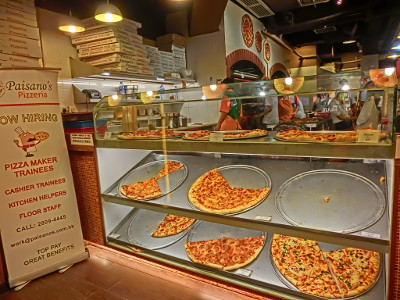
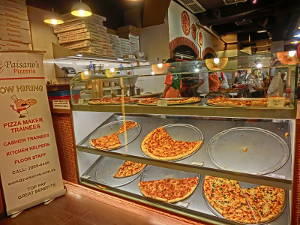
adds modified pizzeria.jpg

diff --git a/views/pizza.html b/views/pizza.html
@@ -1,1 +1,1 @@
-<!DOCTYPE HTML><html><head><meta charset=utf-8><meta name=viewport content="width=device-width, initial-scale=1"></head><body><div class=container><div id=header class=row><div class=col-md-6><div class=row><div class=col-md-12><h1>Cam's Pizzeria</h1><div class=row><div id=menu class=col-md-12><form action=#randomPizzas><input type=submit value=Menu></form><form action=#ingredients><input type=submit value="Our Ingredients"></form><form action=#locations><input type=submit value=Locations></form><form action=# onsubmit="alert('Thanks for clicking! This button doesn\'t do anything because this is a fake pizzeria :\)')"><input type=submit value="Contact Us"></form></div></div></div></div></div><div id=movingPizzas1 class=col-md-6></div></div><div id=callToAction class=row><div class=col-md-4><img src=images/pizzeria.jpg class="img-desktop img-responsive"> <img src=images/pizzeria-sm.jpg class="img-mobile img-responsive"></div><div class=col-md-8><div class=row><div class=col-md-12><h2>We Have Hundreds of Pizza Recipes!</h2><p>At Cam's Pizzeria, we know you want options. Pepperoni? Boring. Cheese? No way! Sausage? C'mon, let's get creative.</p><p>We have every pizza ingredient imaginable in our kitchen because we know you take choice seriously. Take a look through our menu of hundreds of pizza options and we know that you'll find something you love.</p></div></div><div class=row><div class="col-md-6 col-md-push-3"><form action=#randomPizzas><input type=submit value="Pick a Pizza Now!"></form></div></div></div></div><div id=ingredients class=row><div class="col-md-8 col-md-push-2"><div class=row><div class="col-md-12 centered"><h2>Ingredients!</h2></div></div><div class=row><div class=col-md-12><p>We've scoured the planet for the best pizza ingredients. Our crack team of ingredient specialists are on constant lookout for new and interesting pizza ingredients.</p><p>We have classic meats like pepperoni, sausage, and barbecue chicken. But you can find even more fun meats like coppa, kielbasa and soylent green on our menu too.</p><p>Not interested in meat? No problem! We love our veggies too :) We have everything from arugula to zucchini.</p></div></div></div></div><div id=locations class=row><div class=col-md-12><h2 style="text-align: center">Locations!</h2><div class=row><div class=col-md-6><h3>Pizza Road</h3><p>1800 Pizza Road<br>San Francisco, CA<br>01010<br>555-555-5555</p></div><div class=col-md-6><h3>Classic Pie Way</h3><p>999 Classic Pie Way<br>New York, NY<br>00100<br>555-555-5555</p></div></div></div></div><div id=pizzaGenerator class=row><div class=col-md-12><h2 style="text-align: center">Our Pizzas!</h2><div class=row><div class=col-md-12><em>What size pizza would you like? Use the slider below to change pizza sizes.</em></div><div id=pizzaSize class=col-md-6>Medium</div><div class=col-md-12><input id=sizeSlider type=range min=1 max=3 value=2 step=1 onchange=resizePizzas(this.value)></div></div><div id=randomPizzas class=row><div id=pizza0 class=randomPizzaContainer><div class=col-md-6><img src=images/pizza.png class=img-responsive></div><div class=col-md-6><h4>The Udacity Special</h4><ul><li>Turkey</li><li>Tofu</li><li>Cauliflower</li><li>Sun Dried Tomatoes</li><li>Velveeta Cheese</li><li>Red Sauce</li><li>Whole Wheat Crust</li></ul></div></div><div id=pizza1 class=randomPizzaContainer><div class=col-md-6><img src=images/pizza.png class=img-responsive></div><div class=col-md-6><h4>The Cameron Special</h4><ul><li>Chicken</li><li>Hot Sauce</li><li>White Crust</li></ul></div></div></div></div></div><div id=footer class=col-md-12>Thanks for visiting! &copy; 2014 Udacity</div></div><script type=text/javascript src=minjs/main.js></script></body><style>img{vertical-align:middle}.img-responsive{display:block;width:100% \9;max-width:100%;height:auto}.container{margin-right:auto;margin-left:auto;padding-left:15px;padding-right:15px}@media(min-width:768px){.container{width:750px}}@media(min-width:992px){.container{width:970px}}@media(min-width:1200px){.container{width:1170px}}.row{margin-left:-15px;margin-right:-15px}.col-md-4,.col-md-6,.col-md-8,.col-md-12{position:relative;min-height:1px;padding-left:15px;padding-right:15px}@media(min-width:992px){.col-md-4,.col-md-6,.col-md-8,.col-md-12{float:left}.col-md-12{width:100%}.col-md-8{width:66.66666667%}.col-md-6{width:50%}.col-md-4{width:33.33333333%}.col-md-push-3{left:25%}.col-md-push-2{left:16.66666667%}}.container:before,.container:after,.row:before,.row:after{content:" ";display:table}.container:after,.row:after{clear:both}*{-webkit-box-sizing:border-box;-moz-box-sizing:border-box;-box-sizing:border-box}body{font-family:Trebuchet MS,Helvetica,sans-serif;background:#000}input{background:grey;font-size:18px}form{display:inline-block}.centered{text-align:center}#pizzaSize{font-weight:800}.randomPizzaContainer{float:left;width:33.33%;height:325px;display:flex}.randomPizzaContainer:after{content:"";display:table;clear:both}.container{background-color:rgba(240,60,60,.8)}.mover{position:fixed;width:73px;height:100px;left:0px;z-index:-1;}img.img-desktop{display:initial}img.img-mobile{display:none}@media only screen and (max-width:480px){img.img-desktop{display:none}img.img-mobile{display:initial}}</style></html>
+<!DOCTYPE HTML><html><head><meta charset=utf-8><meta name=viewport content="width=device-width, initial-scale=1"></head><body><div class=container><div id=header class=row><div class=col-md-6><div class=row><div class=col-md-12><h1>Cam's Pizzeria</h1><div class=row><div id=menu class=col-md-12><form action=#randomPizzas><input type=submit value=Menu></form><form action=#ingredients><input type=submit value="Our Ingredients"></form><form action=#locations><input type=submit value=Locations></form><form action=# onsubmit="alert('Thanks for clicking! This button doesn\'t do anything because this is a fake pizzeria :\)')"><input type=submit value="Contact Us"></form></div></div></div></div></div><div id=movingPizzas1 class=col-md-6></div></div><div id=callToAction class=row><div class=col-md-4><img src=images/pizzeria.jpg class="img-scale img-responsive"></div><div class=col-md-8><div class=row><div class=col-md-12><h2>We Have Hundreds of Pizza Recipes!</h2><p>At Cam's Pizzeria, we know you want options. Pepperoni? Boring. Cheese? No way! Sausage? C'mon, let's get creative.</p><p>We have every pizza ingredient imaginable in our kitchen because we know you take choice seriously. Take a look through our menu of hundreds of pizza options and we know that you'll find something you love.</p></div></div><div class=row><div class="col-md-6 col-md-push-3"><form action=#randomPizzas><input type=submit value="Pick a Pizza Now!"></form></div></div></div></div><div id=ingredients class=row><div class="col-md-8 col-md-push-2"><div class=row><div class="col-md-12 centered"><h2>Ingredients!</h2></div></div><div class=row><div class=col-md-12><p>We've scoured the planet for the best pizza ingredients. Our crack team of ingredient specialists are on constant lookout for new and interesting pizza ingredients.</p><p>We have classic meats like pepperoni, sausage, and barbecue chicken. But you can find even more fun meats like coppa, kielbasa and soylent green on our menu too.</p><p>Not interested in meat? No problem! We love our veggies too :) We have everything from arugula to zucchini.</p></div></div></div></div><div id=locations class=row><div class=col-md-12><h2 style="text-align: center">Locations!</h2><div class=row><div class=col-md-6><h3>Pizza Road</h3><p>1800 Pizza Road<br>San Francisco, CA<br>01010<br>555-555-5555</p></div><div class=col-md-6><h3>Classic Pie Way</h3><p>999 Classic Pie Way<br>New York, NY<br>00100<br>555-555-5555</p></div></div></div></div><div id=pizzaGenerator class=row><div class=col-md-12><h2 style="text-align: center">Our Pizzas!</h2><div class=row><div class=col-md-12><em>What size pizza would you like? Use the slider below to change pizza sizes.</em></div><div id=pizzaSize class=col-md-6>Medium</div><div class=col-md-12><input id=sizeSlider type=range min=1 max=3 value=2 step=1 onchange=resizePizzas(this.value)></div></div><div id=randomPizzas class=row><div id=pizza0 class=randomPizzaContainer><div class=col-md-6><img src=images/pizza.png class=img-responsive></div><div class=col-md-6><h4>The Udacity Special</h4><ul><li>Turkey</li><li>Tofu</li><li>Cauliflower</li><li>Sun Dried Tomatoes</li><li>Velveeta Cheese</li><li>Red Sauce</li><li>Whole Wheat Crust</li></ul></div></div><div id=pizza1 class=randomPizzaContainer><div class=col-md-6><img src=images/pizza.png class=img-responsive></div><div class=col-md-6><h4>The Cameron Special</h4><ul><li>Chicken</li><li>Hot Sauce</li><li>White Crust</li></ul></div></div></div></div></div><div id=footer class=col-md-12>Thanks for visiting! &copy; 2014 Udacity</div></div><script type=text/javascript src=minjs/main.js></script></body><style>img{vertical-align:middle}.img-responsive{display:block;width:100% \9;max-width:100%;height:auto}.container{margin-right:auto;margin-left:auto;padding-left:15px;padding-right:15px}@media(min-width:768px){.container{width:750px}}@media(min-width:992px){.container{width:970px}}@media(min-width:1200px){.container{width:1170px}}.row{margin-left:-15px;margin-right:-15px}.col-md-4,.col-md-6,.col-md-8,.col-md-12{position:relative;min-height:1px;padding-left:15px;padding-right:15px}@media(min-width:992px){.col-md-4,.col-md-6,.col-md-8,.col-md-12{float:left}.col-md-12{width:100%}.col-md-8{width:66.66666667%}.col-md-6{width:50%}.col-md-4{width:33.33333333%}.col-md-push-3{left:25%}.col-md-push-2{left:16.66666667%}}.container:before,.container:after,.row:before,.row:after{content:" ";display:table}.container:after,.row:after{clear:both}*{-webkit-box-sizing:border-box;-moz-box-sizing:border-box;-box-sizing:border-box}body{font-family:Trebuchet MS,Helvetica,sans-serif;background:#000}input{background:grey;font-size:18px}form{display:inline-block}.centered{text-align:center}#pizzaSize{font-weight:800}.randomPizzaContainer{float:left;width:33.33%;height:325px;display:flex}.randomPizzaContainer:after{content:"";display:table;clear:both}.container{background-color:rgba(240,60,60,.8)}.mover{position:fixed;width:73px;height:100px;left:0px;z-index:-1;}img.img-scale{display:initial}@media only screen and (max-device-width:480px){img.img-scale{display:none}}</style></html>
